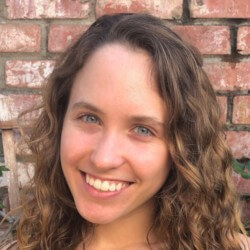
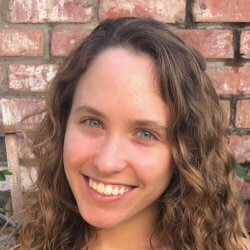
Added more profile pics and added webp format

diff --git a/mockup/templates/about.html b/mockup/templates/about.html
@@ -4,15 +4,15 @@
     <h1 class="header">Meet the Team</h1>
     <div class="row justify-content-center">
       <div class="col-12 col-md-3">
-        <img src="../static/images/diana-valdes.jpg" alt="Diana Valdes" loading="lazy">
+        <img src="{{ url_for('static', filename='images/diana-valdes.jpg') }}" alt="Diana Valdes" loading="lazy">
         <h2>Diana Valdes</h2>
         <p>Chief Executive Officer</p>
       </div>
       <div class="col-6 col-md-3">
         <picture>
-          <source type="image/webp" srcset="../static/images/tiffany-wang.webp">
-          <source type="image/jpeg" srcset="../static/images/tiffany-wang.jpg">
-            <img src="../static/images/tiffany-wang.jpg" alt="Tiffany Wang" loading="lazy">
+          <source type="image/webp" srcset="{{ url_for('static', filename='images/tiffany-wang.webp') }}" loading="lazy">
+          <source type="image/jpeg" srcset="{{ url_for('static', filename='images/tiffany-wang.jpg') }}" loading="lazy">
+          <img src="{{ url_for('static', filename='images/tiffany-wang.jpg') }}" alt="Tiffany Wang" loading="lazy">
         </picture>
         <h2>Tiffany Wang</h2>
         <p>Chief Product Officer</p>
@@ -29,7 +29,11 @@
         <h2>Kayleen Chee</h2>
       </div>
       <div class="col-6 col-md-3">
-        <img src="../static/images/jefferson-lei.jpg" alt="Jefferson Lei" loading="lazy">
+        <picture>
+          <source type="image/webp" srcset="{{ url_for('static', filename='images/jefferson-lei.webp') }}" loading="lazy">
+          <source type="image/jpeg" srcset="{{ url_for('static', filename='images/jefferson-lei.jpg') }}" loading="lazy">
+          <img src="{{ url_for('static', filename='images/jefferson-lei.jpg') }}" alt="Jefferson Lei" loading="lazy">
+        </picture>
         <h2>Jefferson Lei</h2>
         <p>Materials Development Engineer</p>
       </div>
@@ -38,13 +42,22 @@
         <h2>Ruixiao Liu</h2>
       </div>
       <div class="col-6 col-md-3">
-        <img src="../static/images/user.svg" alt="Arthur Miranda-Huicochea" loading="lazy">
+        <picture>
+          <source type="image/webp" srcset="{{ url_for('static', filename='images/arthur-miranda-huicochea.webp') }}" loading="lazy">
+          <source type="image/jpeg" srcset="{{ url_for('static', filename='images/arthur-miranda-huicochea.jpg') }}" loading="lazy">
+          <img src="{{ url_for('static', filename='images/arthur-miranda-huicochea.jpg') }}" alt="Arthur Miranda-Huicochea" loading="lazy">
+        </picture>
+        
         <h2>Arthur Miranda-Huicochea</h2>
       </div>
     </div>
     <div class="row justify-content-center">
       <div class="col-6 col-md-3">
-        <img src="../static/images/khoa-nguyen.jpg" alt="Khoa Nguyen" loading="lazy">
+        <picture>
+          <source type="image/webp" srcset="{{ url_for('static', filename='images/khoa-nguyen.webp') }}" loading="lazy">
+          <source type="image/jpeg" srcset="{{ url_for('static', filename='images/khoa-nguyen.jpg') }}" loading="lazy">
+          <img src="{{ url_for('static', filename='images/khoa-nguyen.jpg') }}" alt="Khoa Nguyen" loading="lazy">
+        </picture>
         <h2>Khoa Nguyen</h2>
         <p>Production Design Coordinator</p>
       </div>
@@ -53,23 +66,40 @@
         <h2>Nam Nguyen</h2>
       </div>
       <div class="col-6 col-md-3">
-        <img src="../static/images/user.svg" alt="Tanay Patil" loading="lazy">
+        <picture>
+          <source type="image/webp" srcset="{{ url_for('static', filename='images/tanay-patil.webp') }}" loading="lazy">
+          <source type="image/jpeg" srcset="{{ url_for('static', filename='images/tanay-patil.jpg') }}" loading="lazy">
+          <img src="{{ url_for('static', filename='images/tanay-patil.jpg') }}" alt="Tanay Patil" loading="lazy">
+        </picture>
         <h2>Tanay Patil</h2>
+        <p>System Integration Coordinator</p>
       </div>
       <div class="col-6 col-md-3">
-        <img src="../static/images/tatiana-podhajny.jpg" alt="Tatiana Podhajny" loading="lazy">
+        <picture>
+          <source type="image/webp" srcset="{{ url_for('static', filename='images/tatiana-podhajny.webp') }}" loading="lazy">
+          <source type="image/jpeg" srcset="{{ url_for('static', filename='images/tatiana-podhajny.jpg') }}" loading="lazy">
+          <img src="{{ url_for('static', filename='images/tatiana-podhajny.jpg') }}" alt="Tatiana Podhajny" loading="lazy">
+        </picture>
         <h2>Tatiana Podhajny</h2>
         <p>Fiber Investigator</p>
       </div>
     </div>
     <div class="row justify-content-center">
       <div class="col-6 col-md-3">
-        <img src="../static/images/aku-saraf.jpg" alt="Aku Saraf" loading="lazy">
+        <picture>
+          <source type="image/webp" srcset="{{ url_for('static', filename='images/aku-saraf.webp') }}" loading="lazy">
+          <source type="image/jpeg" srcset="{{ url_for('static', filename='images/aku-saraf.jpg') }}" loading="lazy">
+          <img src="{{ url_for('static', filename='images/aku-saraf.jpg') }}" alt="Aku Saraf" loading="lazy">
+        </picture>
         <h2>Aku Saraf</h2>
         <p>Physicist</p>
       </div>
       <div class="col-6 col-md-3">
-        <img src="../static/images/brian-wang.jpg" alt="Brian Wang" loading="lazy">
+        <picture>
+          <source type="image/webp" srcset="{{ url_for('static', filename='images/brian-wang.webp') }}" loading="lazy">
+          <source type="image/jpeg" srcset="{{ url_for('static', filename='images/brian-wang.jpg') }}" loading="lazy">
+          <img src="{{ url_for('static', filename='images/brian-wang.jpg')}}" alt="Brian Wang" loading="lazy">
+        </picture>
         <h2>Brian Wang</h2>
         <p>Front-End Web Developer</p>
       </div>

diff --git a/mockup/templates/story.html b/mockup/templates/story.html
@@ -1,0 +1,29 @@
+{% extends "layout.html" %}
+{% block content %}
+  <section id="story">
+    <h1 class="header">Our Story</h1>
+    <p>Our founder and CEO, Diana Valdes, grew up in a small town in Mexico where the only source of income was working at jean 
+      manufacturing sweatshops (maquiladoras). The lack of financial stability and upward mobility pushed her single mom to migrate 
+      to the United States in search of a better life. At 12 years old, Diana migrated too and when she moved to Marin County, 
+      she no longer saw her mother make the clothes, she saw her buying them. While Diana began to experience the other side of 
+      the fashion industry, the need for owning more emerged. In the Spring of 2017 she had the opportunity to travel to India, 
+      where she saw piles of clothes replacing bodies of water right under a crossing bridge. The interesting part about this 
+      experience was that she was not shocked at all, the sensation she felt when seeing piles of waste was a very familiar feeling.</p>
+    <p>Diana has experienced first hand the complexity of the industry; the environmental pollution, the continuous exacerbation of 
+      poverty in developing countries for the need to meet demand and the instilled drive to buy more clothes.</p>
+    <p>Viberent was born out of this complexity and brings forward the need to transform the wasteful linear model of the fashion industry 
+      into a closed loop model.</p>
+    <p>While working towards her Bachelors Degree in Sociology at the University of California San Diego, Diana met Richard Miller 
+      (Viberent’s Chief Technology Officer) and Tiffany Wang (Viberent’s Chief Product Officer).</p>
+    <p>Richard from an early age learned  the value of maintaining and conserving supplies from our environment. While working towards 
+      his double Bachelors Degrees in NanoEngineering and Economics, he extended this philosophy to the development of new technology, 
+      where an emphasis on reusability, recyclability, and a reduction in the amount of materials used is an especially important 
+      consideration.</p>
+    <p>Tiffany studied abroad in New Zealand despite majoring in Chemical Engineering and still graduating on time. Seeing the gorgeous 
+      Lord of the Ring’s scenery in New Zealand piqued her interest in sustainability. As a chemical engineer who is trained to scale 
+      processes for mass production, she resolved to create new responsible, resource-efficient approaches to production and consumption 
+      of clothes.</p>
+    <p>Diana’s personal experience of both extremes of the fashion industry, along with Richard’s technical background and Tiffany’s 
+      passion for scaling closed loop processes gave birth to Viberent on April 2019.</p>
+  </section>
+{% endblock content %}

diff --git a/mockup/templates/layout.html b/mockup/templates/layout.html
@@ -2,14 +2,14 @@
 <html lang="en">
 <head>
   <!-- Global site tag (gtag.js) - Google Analytics -->
-  <script async src="https://www.googletagmanager.com/gtag/js?id=UA-172661515-3"></script>
+  <!-- <script async src="https://www.googletagmanager.com/gtag/js?id=UA-172661515-3"></script>
   <script>
     window.dataLayer = window.dataLayer || [];
     function gtag(){dataLayer.push(arguments);}
     gtag('js', new Date());
 
     gtag('config', 'UA-172661515-3');
-  </script>
+  </script> -->
 
 	<meta charset="UTF-8">
   <meta name="viewport" content="width=device-width, initial-scale=1, shrink-to-fit=no">
@@ -30,13 +30,16 @@
   <header class="site-header">
     <nav class="navbar navbar-expand-lg navbar-light bg-light">
       <a class="navbar-brand" href="{{ url_for('home') }}"><img src="{{ url_for('static', filename='images/Logo.png') }}" alt=""></a>
-      <button class="navbar-toggler" type="button" data-toggle="collapse" data-target="#navbarNavAltMarkup" aria-controls="navbarNavAltMarkup" aria-expanded="false" aria-label="Toggle navigation">
+      <button class="navbar-toggler" type="button" data-toggle="collapse" data-target="#navbarSupportedContent" aria-controls="navbarSupportedContent" aria-expanded="false" aria-label="Toggle navigation">
         <span class="navbar-toggler-icon"></span>
       </button>
-      <div class="collapse navbar-collapse" id="navbarNavAltMarkup">
+      <div class="collapse navbar-collapse" id="navbarSupportedContent">
         <ul class="navbar-nav ml-auto">
           <li class="nav-item">
             <a class="nav-link" href="{{ url_for('home') }}">Home</a>
+          </li>
+          <li class="nav-item">
+            <a class="nav-link" href="{{ url_for('story') }}">Our Story</a>
           </li>
           <li class="nav-item">
             <a class="nav-link" href="{{ url_for('about') }}">About Us</a>

diff --git a/mockup/static/css/style.css b/mockup/static/css/style.css
@@ -1,7 +1,7 @@
 body, html {
 	overflow-x: hidden;
 	font-family: 'Quicksand', sans-serif;
-	height: 100%;
+  height: 100%;
 }
 section {
 	padding: 5rem 0;
@@ -10,6 +10,7 @@ section {
   font-size: 3.7em;
   text-transform: uppercase;
   text-align: center;
+  margin-bottom: 1.5rem;
   background: #03001e;  /* fallback for old browsers */
   background: -webkit-linear-gradient(to right, #fdeff9, #F8BBD0, #1e3c72, #03001e);  /* Chrome 10-25, Safari 5.1-6 */
   background: linear-gradient(to right, #fdeff9, #F8BBD0, #1e3c72, #03001e); /* W3C, IE 10+/ Edge, Firefox 16+, Chrome 26+, Opera 12+, Safari 7+ */
@@ -124,7 +125,7 @@ section {
 #blueBtn {
   background-color: #000080;
 }
-.collapsed {
+.hidden {
   display: none;
 }
 
@@ -160,6 +161,11 @@ footer p {
 }
 #about p {
   text-align: center;
+}
+
+/* Our Story Page */
+#story p {
+  font-size: 1.5em;
 }
 
 /* ===== Media Queries ===== */

diff --git a/mockup/templates/index.html b/mockup/templates/index.html
@@ -16,7 +16,7 @@
       </div>
     </div>
     <!-- === DYE VIDEOS === -->
-    <div id="redDye" class="collapsed">
+    <div id="redDye" class="hidden">
       <div class="text-center">
         <h4>By rewearing your "new" clothes <span class="redDisplay">0</span> time(s), you have saved</h4>
         <div class="saved text-left">
@@ -34,7 +34,7 @@
         </div>
       </div>
     </div>
-    <div id="blueDye" class="collapsed">
+    <div id="blueDye" class="hidden">
       <div class="text-center">
         <h4>By rewearing your "new" clothes <span class="blueDisplay">0</span> time(s), you have saved</h4>
         <div class="saved text-left">

diff --git a/mockup/routes.py b/mockup/routes.py
@@ -8,3 +8,7 @@ def home():
 @app.route("/about")
 def about():
     return render_template("about.html", title="About")
+
+@app.route("/story")
+def story():
+    return render_template("story.html", title="Story")
